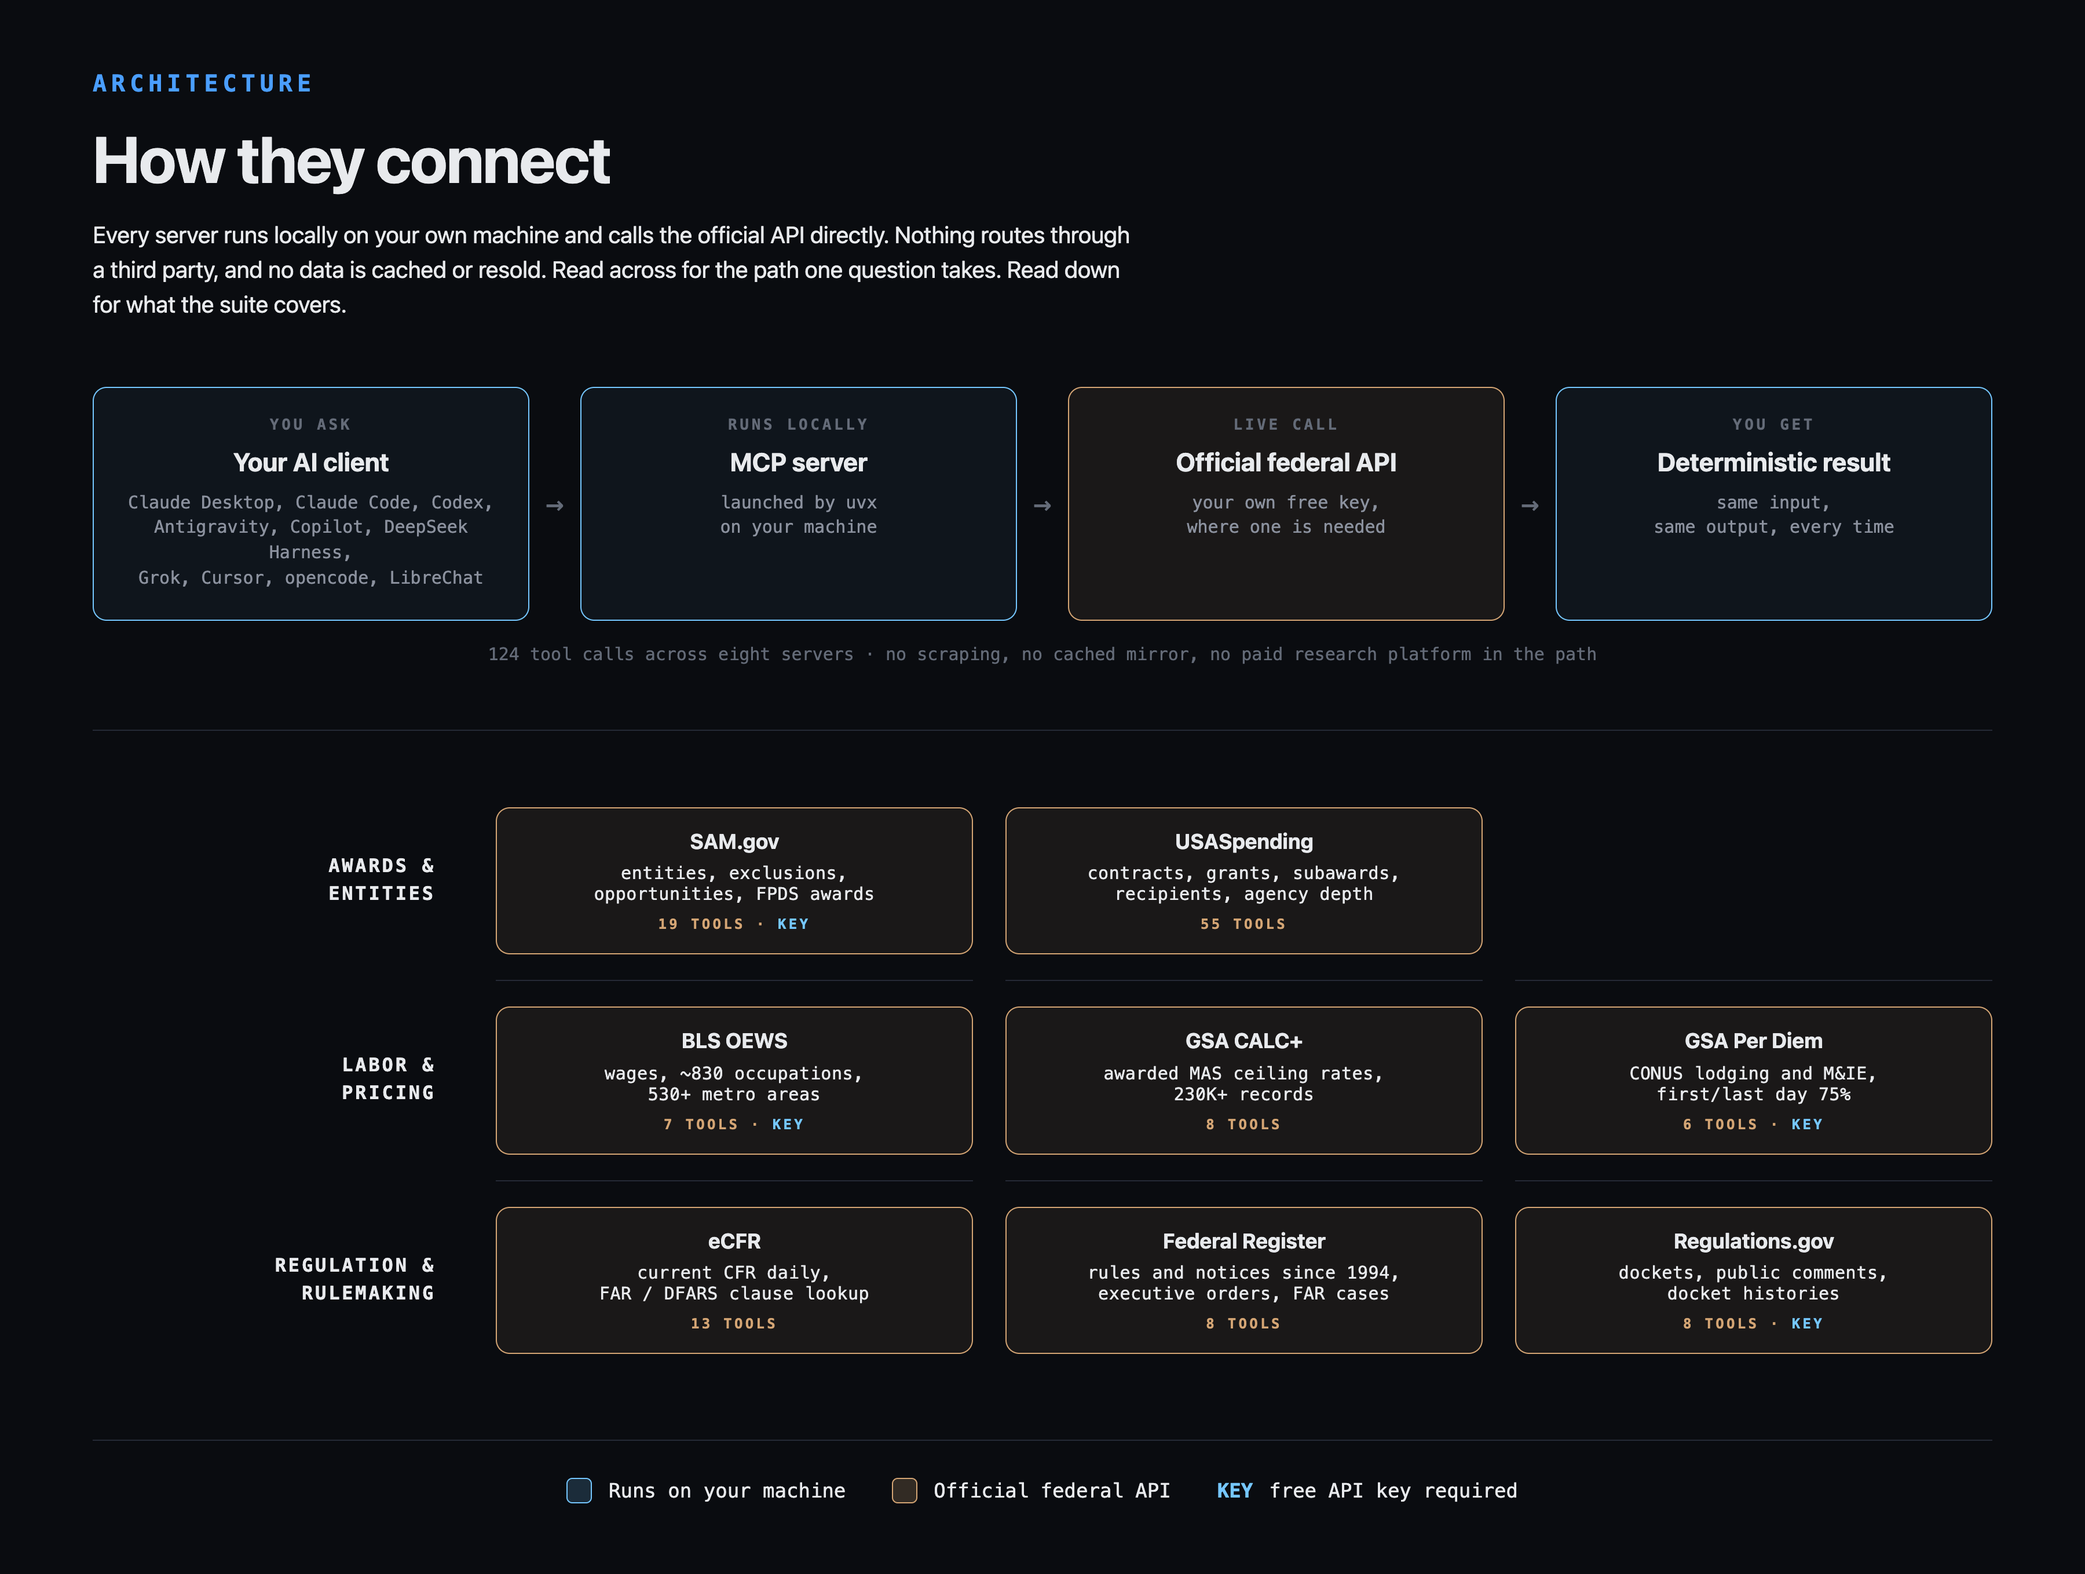
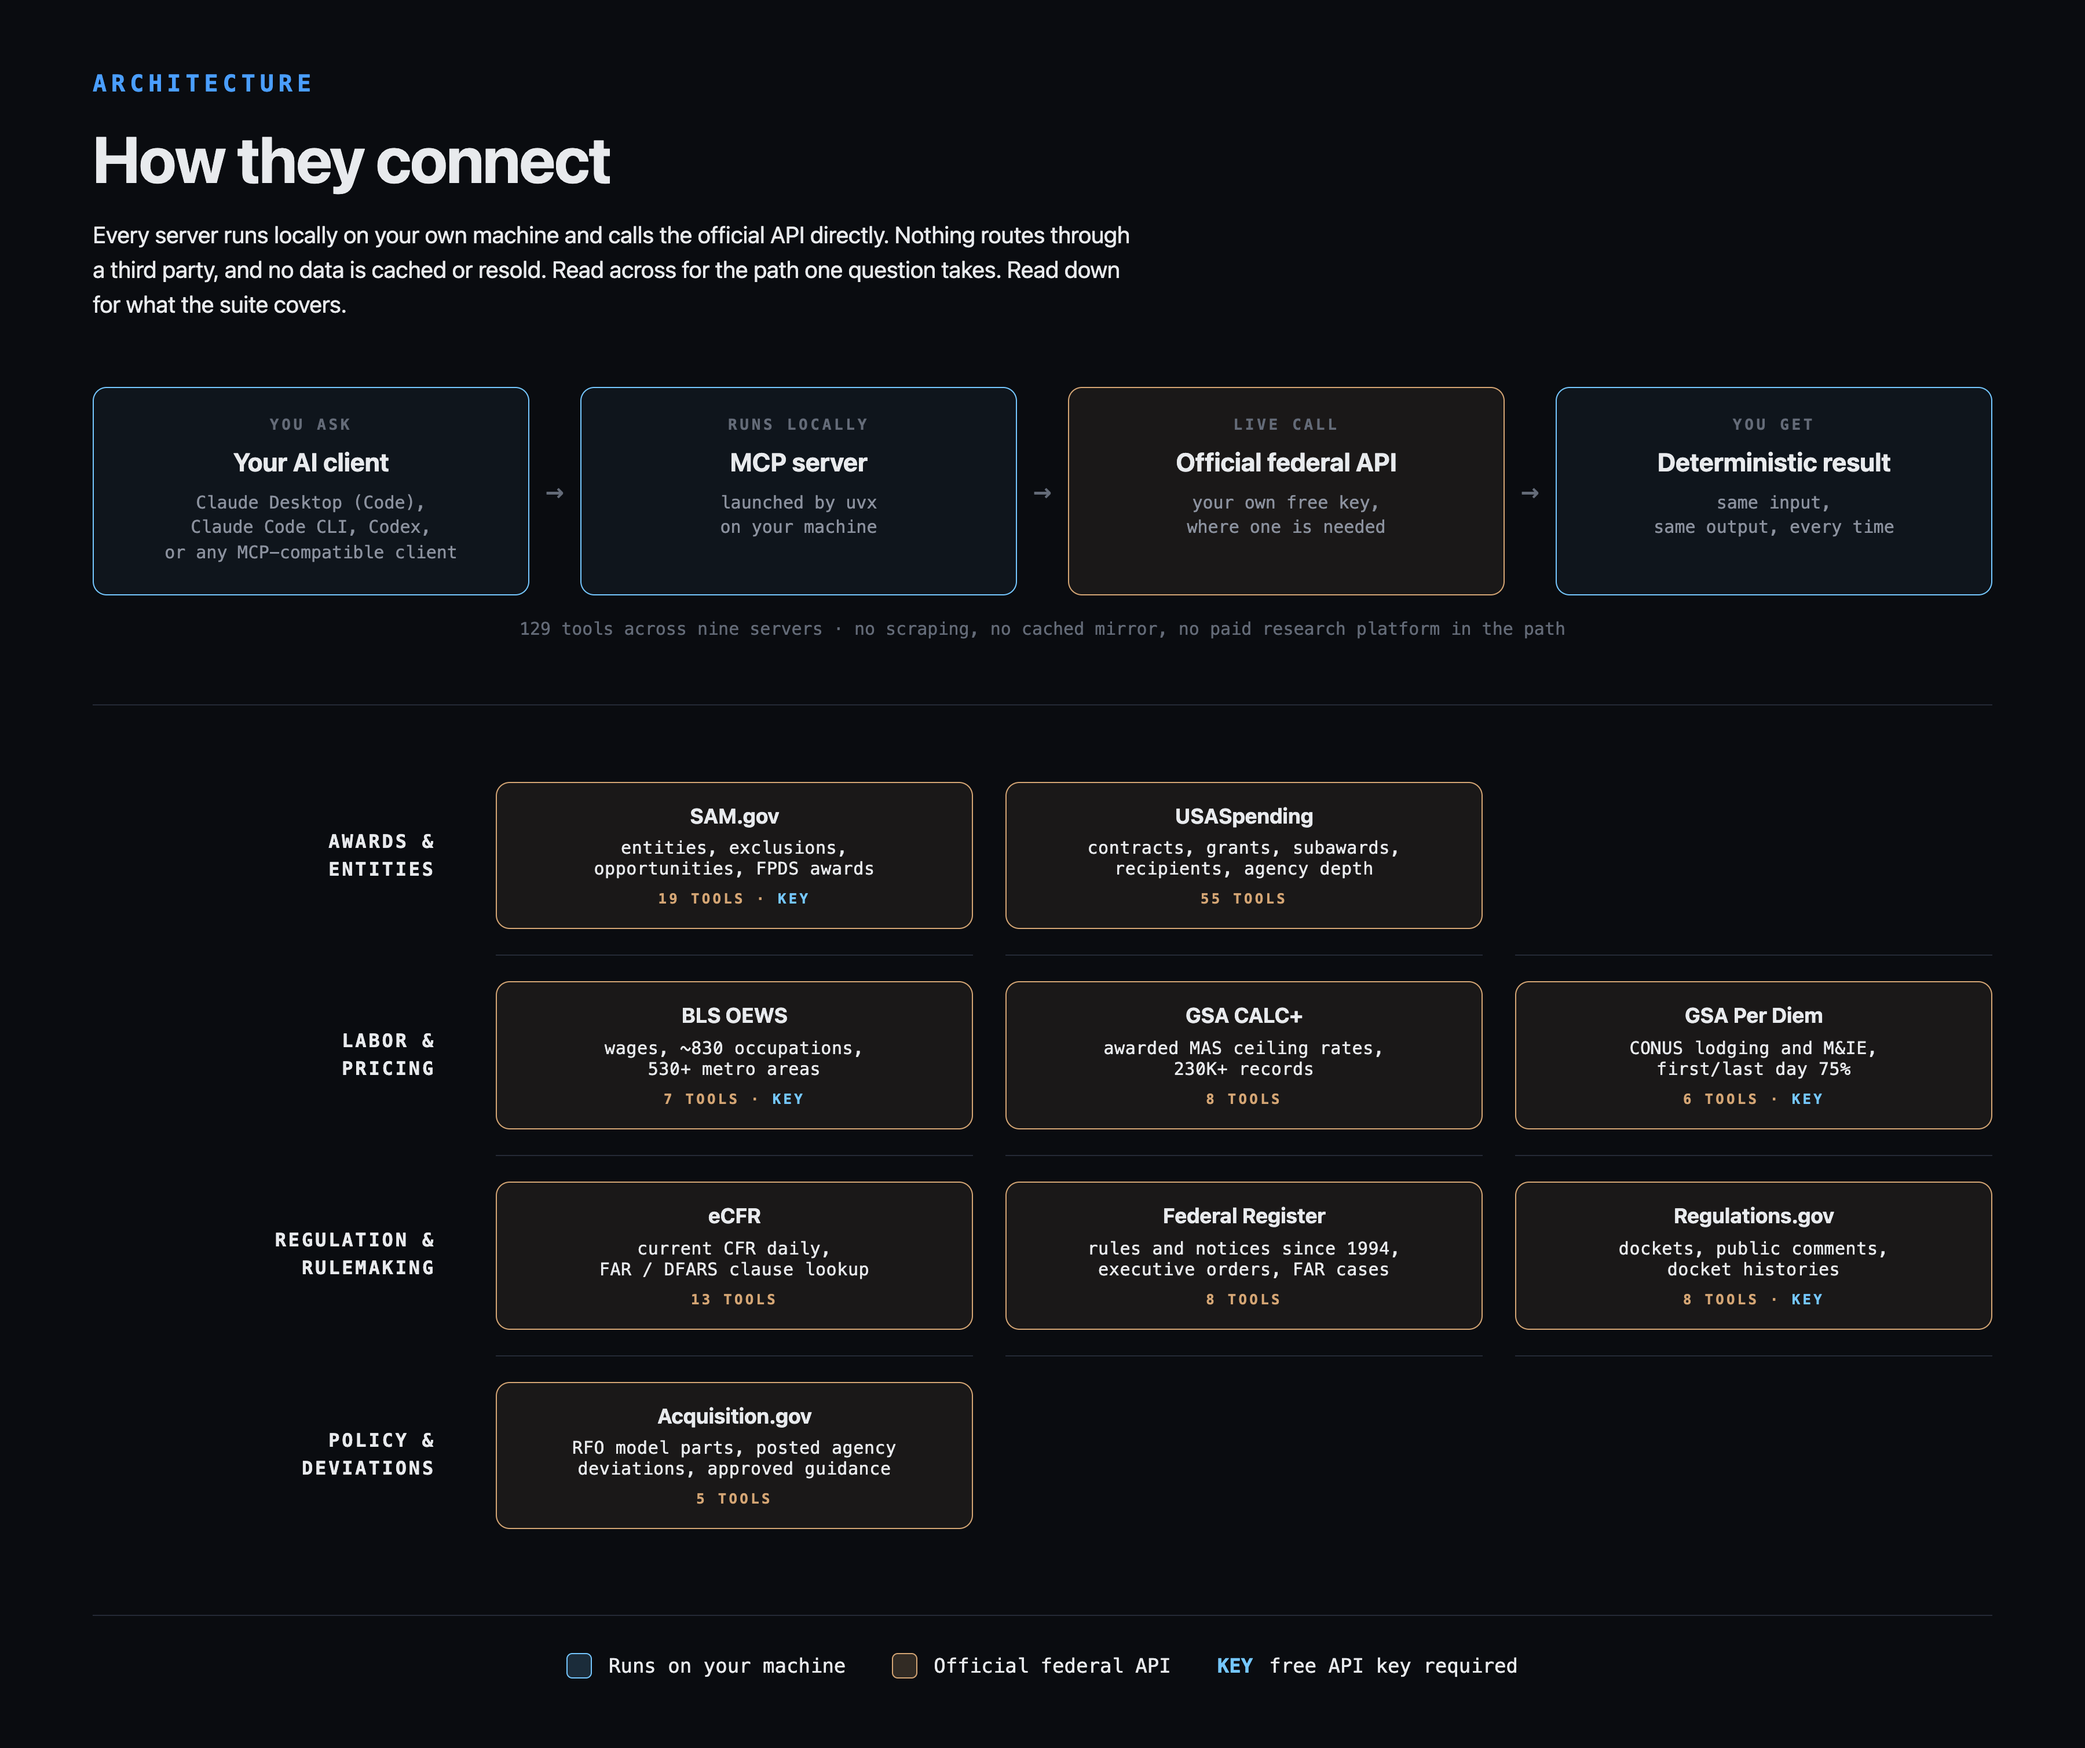
docs: correct architecture diagram and add a reproducible renderer
The diagram caption still read "124 tool calls across eight servers" after
Acquisition.gov made it nine servers and 129 tools, and the rendered PNG had no
Acquisition.gov tile at all. The PNG was produced by hand, so nothing tied it to
its HTML source and the two drifted.

- Caption is now "129 tools across nine servers". They are tools, not calls.
- Added the Acquisition.gov tile under a new Policy and Deviations row. The
  matrix is a three-cell grid, so a fourth tile in the Regulation row wrapped
  into the next row-label slot; its own labeled row keeps the alignment.
- The client strip listed eleven hosts including several never maintained. It
  now names Claude Desktop (Code), Claude Code CLI, Codex, and any
  MCP-compatible client.
- Added scripts/render_architecture.py. One command regenerates the PNG from
  the source, and --check fails when the caption disagrees with the tiles it
  sits above, which is the drift that produced this defect.

diff --git a/docs/architecture-source.html b/docs/architecture-source.html
@@ -216,7 +216,7 @@ takes. Read down for what the suite covers.</p>
   <div class="step local">
     <div class="step-kicker">You ask</div>
     <div class="step-title">Your AI client</div>
-    <div class="step-sub">Claude Desktop, Claude Code, Codex,<br>Antigravity, Copilot, DeepSeek Harness,<br>Grok, Cursor, opencode, LibreChat</div>
+    <div class="step-sub">Claude Desktop (Code),<br>Claude Code CLI, Codex,<br>or any MCP-compatible client</div>
   </div>
   <div class="arrow">&#8594;</div>
   <div class="step local">
@@ -237,7 +237,7 @@ takes. Read down for what the suite covers.</p>
     <div class="step-sub">same input,<br>same output, every time</div>
   </div>
 </div>
-<p class="path-note">124 tool calls across eight servers &middot; no scraping, no cached mirror, no paid research platform in the path</p>
+<p class="path-note">129 tools across nine servers &middot; no scraping, no cached mirror, no paid research platform in the path</p>
 
 <hr class="divider">
 
@@ -304,6 +304,17 @@ takes. Read down for what the suite covers.</p>
       <div class="tile-kind">8 TOOLS &middot; <span class="key">KEY</span></div>
     </div>
   </div>
+
+  <div class="row-label">Policy &amp;<br>Deviations</div>
+  <div class="cell">
+    <div class="tile">
+      <div class="tile-title">Acquisition.gov</div>
+      <div class="tile-sub">RFO model parts, posted agency<br>deviations, approved guidance</div>
+      <div class="tile-kind">5 TOOLS</div>
+    </div>
+  </div>
+  <div class="cell"></div>
+  <div class="cell"></div>
 </div>
 
 <div class="legend">

diff --git a/scripts/render_architecture.py b/scripts/render_architecture.py
@@ -1,0 +1,109 @@
+#!/usr/bin/env python3
+"""Render docs/architecture.png from docs/architecture-source.html.
+
+Why this exists
+---------------
+The rendered diagram and its HTML source used to drift, because the PNG was
+produced by hand and nothing tied it to the source. That is how the caption came
+to claim "124 tool calls across eight servers" after Acquisition.gov made it nine
+servers and 129 tools. Regenerating from source is now one command, so the two
+move together.
+
+Usage
+-----
+    uv run --with playwright python scripts/render_architecture.py
+    uv run --with playwright python scripts/render_architecture.py --check
+
+--check renders to a temporary file and compares tool counts in the source
+against the caption, without writing the PNG. It does not compare pixels, since
+font rasterization differs across machines.
+
+Requires Playwright and a local Chrome (channel="chrome"), matching the renderer
+used for the website images.
+"""
+
+from __future__ import annotations
+
+import asyncio
+import pathlib
+import re
+import sys
+
+REPO_ROOT = pathlib.Path(__file__).resolve().parents[1]
+SOURCE = REPO_ROOT / "docs" / "architecture-source.html"
+OUTPUT = REPO_ROOT / "docs" / "architecture.png"
+SCALE = 2  # retina, matching the existing asset
+
+
+def audit_source() -> list[str]:
+    """The caption must agree with the tiles it sits above."""
+    html = SOURCE.read_text(encoding="utf-8")
+    errors: list[str] = []
+
+    counts = [int(value) for value in re.findall(r">(\d+) TOOLS", html)]
+    caption = re.search(r'<p class="path-note">([^<]*)', html)
+    if caption is None:
+        return ["architecture-source.html: no path-note caption found"]
+    text = caption.group(1)
+
+    claimed_tools = re.search(r"(\d+)\s+tools", text)
+    if claimed_tools is None:
+        errors.append(f"caption does not state a tool count: {text!r}")
+    elif int(claimed_tools.group(1)) != sum(counts):
+        errors.append(
+            f"caption claims {claimed_tools.group(1)} tools but the tiles sum to {sum(counts)}"
+        )
+
+    words = {"eight": 8, "nine": 9, "ten": 10, "eleven": 11}
+    claimed_servers = re.search(r"across (\w+) servers", text)
+    if claimed_servers is None:
+        errors.append(f"caption does not state a server count: {text!r}")
+    else:
+        word = claimed_servers.group(1)
+        if word not in words:
+            errors.append(f"unrecognized server count word {word!r}")
+        elif words[word] != len(counts):
+            errors.append(
+                f"caption claims {word} ({words[word]}) servers but there are {len(counts)} tiles"
+            )
+
+    if "tool calls" in text:
+        errors.append("caption says 'tool calls'; these are tools, not calls")
+    return errors
+
+
+async def render(out_png: pathlib.Path) -> None:
+    from playwright.async_api import async_playwright
+
+    async with async_playwright() as p:
+        browser = await p.chromium.launch(headless=True, channel="chrome")
+        ctx = await browser.new_context(
+            viewport={"width": 1800, "height": 900},
+            device_scale_factor=SCALE,
+        )
+        page = await ctx.new_page()
+        await page.goto(SOURCE.as_uri(), wait_until="networkidle")
+        await page.wait_for_timeout(400)  # let webfonts settle before capture
+        out_png.parent.mkdir(parents=True, exist_ok=True)
+        await page.screenshot(path=str(out_png), full_page=True)
+        await browser.close()
+
+
+async def main() -> None:
+    check_only = "--check" in sys.argv[1:]
+    errors = audit_source()
+    if errors:
+        print("architecture source is internally inconsistent:", file=sys.stderr)
+        for error in errors:
+            print(f"- {error}", file=sys.stderr)
+        raise SystemExit(1)
+    if check_only:
+        print("architecture-source.html caption agrees with its tiles")
+        return
+    await render(OUTPUT)
+    size = OUTPUT.stat().st_size
+    print(f"rendered {OUTPUT.relative_to(REPO_ROOT)} ({size // 1024} KB)")
+
+
+if __name__ == "__main__":
+    asyncio.run(main())
